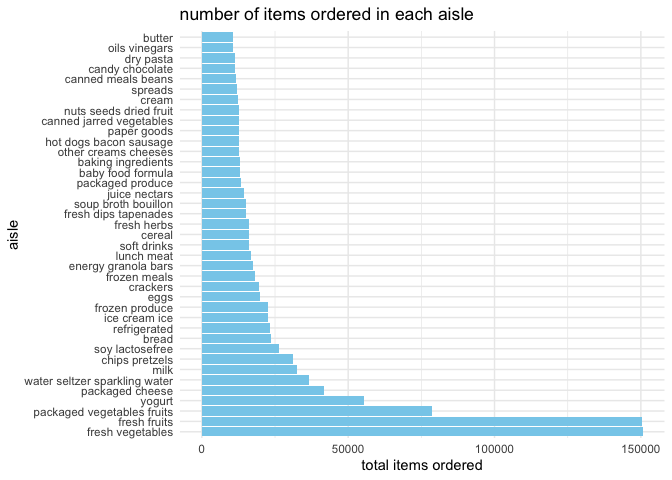
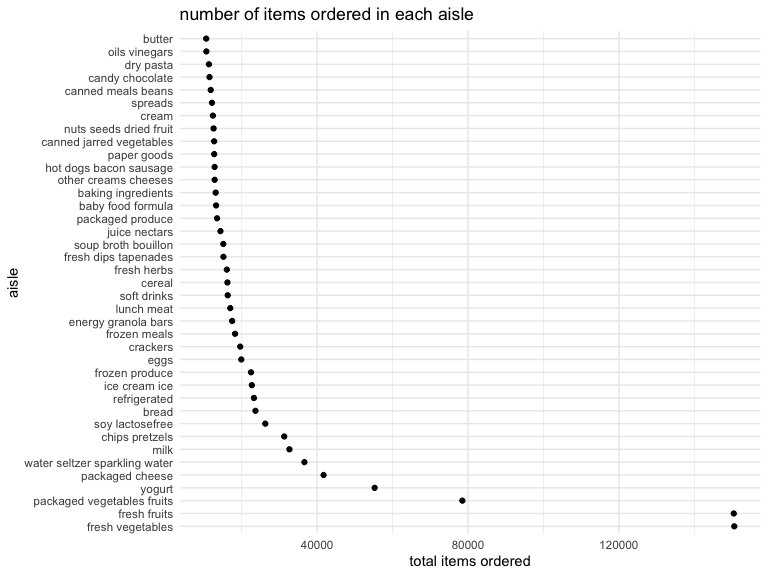
first question of problem 2 jakdfghjkadkj

diff --git a/p8105_hw3_nn2477.md b/p8105_hw3_nn2477.md
@@ -3,24 +3,8 @@ hw3_nn2477
 Nhu Nguyen
 2023-10-11
 
-## loading necessary libraries
-
 ``` r
 library(tidyverse)
-```
-
-    ## ── Attaching core tidyverse packages ──────────────────────── tidyverse 2.0.0 ──
-    ## ✔ dplyr     1.1.3     ✔ readr     2.1.4
-    ## ✔ forcats   1.0.0     ✔ stringr   1.5.0
-    ## ✔ ggplot2   3.4.3     ✔ tibble    3.2.1
-    ## ✔ lubridate 1.9.2     ✔ tidyr     1.3.0
-    ## ✔ purrr     1.0.2     
-    ## ── Conflicts ────────────────────────────────────────── tidyverse_conflicts() ──
-    ## ✖ dplyr::filter() masks stats::filter()
-    ## ✖ dplyr::lag()    masks stats::lag()
-    ## ℹ Use the conflicted package (<http://conflicted.r-lib.org/>) to force all conflicts to become errors
-
-``` r
 library(ggplot2)
 library(p8105.datasets)
 data("instacart")
@@ -71,7 +55,7 @@ instacart %>%
   filter(total_items > 10000) %>% 
   arrange(desc(total_items)) %>% 
 ggplot(aes(x = reorder(aisle, -total_items), y = total_items)) +
-  geom_bar(stat = "identity", fill = "skyblue") + 
+  geom_point() + 
   labs (
     title = "number of items ordered in each aisle", 
     x = "aisle",
@@ -81,7 +65,7 @@ ggplot(aes(x = reorder(aisle, -total_items), y = total_items)) +
   theme_minimal()
 ```
 
-![](p8105_hw3_nn2477_files/figure-gfm/unnamed-chunk-4-1.png)<!-- -->
+<img src="p8105_hw3_nn2477_files/figure-gfm/unnamed-chunk-4-1.png" width="90%" />
 
 ## making a table for the three most popular items
 
@@ -127,27 +111,82 @@ instacart %>%
     "3" = "wednesday",
     "4" = "thursday",
     "5" = "friday",
-    "6" = "saturday"), 
-    order_hour_of_day = ifelse(
-      order_hour_of_day <= 12, 
-      paste0(order_hour_of_day, "AM"),
-      paste0(order_hour_of_day - 12, "PM")))
+    "6" = "saturday")) %>% 
+  filter(product_name %in% c("Pink Lady Apples", "Coffee Ice Cream")) %>% 
+  group_by(order_dow, product_name) %>% 
+  summarise(mean_hour = mean(order_hour_of_day, na.rm = TRUE)) 
 ```
 
-    ## # A tibble: 1,384,617 × 15
-    ##    order_id product_id add_to_cart_order reordered user_id eval_set order_number
-    ##       <int>      <int>             <int>     <int>   <int> <chr>           <int>
-    ##  1        1      49302                 1         1  112108 train               4
-    ##  2        1      11109                 2         1  112108 train               4
-    ##  3        1      10246                 3         0  112108 train               4
-    ##  4        1      49683                 4         0  112108 train               4
-    ##  5        1      43633                 5         1  112108 train               4
-    ##  6        1      13176                 6         0  112108 train               4
-    ##  7        1      47209                 7         0  112108 train               4
-    ##  8        1      22035                 8         1  112108 train               4
-    ##  9       36      39612                 1         0   79431 train              23
-    ## 10       36      19660                 2         1   79431 train              23
-    ## # ℹ 1,384,607 more rows
-    ## # ℹ 8 more variables: order_dow <chr>, order_hour_of_day <chr>,
-    ## #   days_since_prior_order <int>, product_name <chr>, aisle_id <int>,
-    ## #   department_id <int>, aisle <chr>, department <chr>
+    ## `summarise()` has grouped output by 'order_dow'. You can override using the
+    ## `.groups` argument.
+
+    ## # A tibble: 14 × 3
+    ## # Groups:   order_dow [7]
+    ##    order_dow product_name     mean_hour
+    ##    <chr>     <chr>                <dbl>
+    ##  1 friday    Coffee Ice Cream      12.3
+    ##  2 friday    Pink Lady Apples      12.8
+    ##  3 monday    Coffee Ice Cream      14.3
+    ##  4 monday    Pink Lady Apples      11.4
+    ##  5 saturday  Coffee Ice Cream      13.8
+    ##  6 saturday  Pink Lady Apples      11.9
+    ##  7 sunday    Coffee Ice Cream      13.8
+    ##  8 sunday    Pink Lady Apples      13.4
+    ##  9 thursday  Coffee Ice Cream      15.2
+    ## 10 thursday  Pink Lady Apples      11.6
+    ## 11 tuesday   Coffee Ice Cream      15.4
+    ## 12 tuesday   Pink Lady Apples      11.7
+    ## 13 wednesday Coffee Ice Cream      15.3
+    ## 14 wednesday Pink Lady Apples      14.2
+
+## problem 2
+
+loading dataset
+
+``` r
+data("brfss_smart2010")
+```
+
+## cleaning dataset
+
+``` r
+brfss_df <- brfss_smart2010 %>% 
+  janitor::clean_names() %>% 
+  rename(county = locationdesc, state = locationabbr) %>% 
+  filter(topic == "Overall Health",
+     response %in% c("Excellent", "Very good", "Good", "Fair", "Poor")) %>% 
+  mutate(response = factor(
+    response,
+    levels = c("Poor", "Fair", "Good", "Very good", "Excellent"), exclude = NULL),
+    county = gsub("-", "", as.character(county)),
+    county = substring(county, first = 4))
+```
+
+## 2002 data
+
+``` r
+brfss_2002 <- brfss_df %>% 
+  filter(year == 2002) %>% 
+  group_by(state) %>% 
+  summarise(locations = n()) %>% 
+  filter(locations >= 7) 
+```
+
+In 2002,AZ, CO, CT, DE, FL, GA, HI, ID, IL, IN, KS, LA, MA, MD, ME, MI,
+MN, MO, NC, NE, NH, NJ, NV, NY, OH, OK, OR, PA, RI, SC, SD, TN, TX, UT,
+VT, WA were observed to have 7 or more locations.
+
+## 2010 data
+
+``` r
+brfss_2010 <- brfss_df %>% 
+  filter(year == 2010) %>% 
+  group_by(state) %>% 
+  summarise(locations = n()) %>% 
+  filter(locations >= 7) 
+```
+
+In 2010,AL, AR, AZ, CA, CO, CT, DE, FL, GA, HI, IA, ID, IL, IN, KS, LA,
+MA, MD, ME, MI, MN, MO, MS, MT, NC, ND, NE, NH, NJ, NM, NV, NY, OH, OK,
+OR, PA, RI, SC, SD, TN, TX, UT, VT, WA, WY were observed to have 7 or
+more locations.
